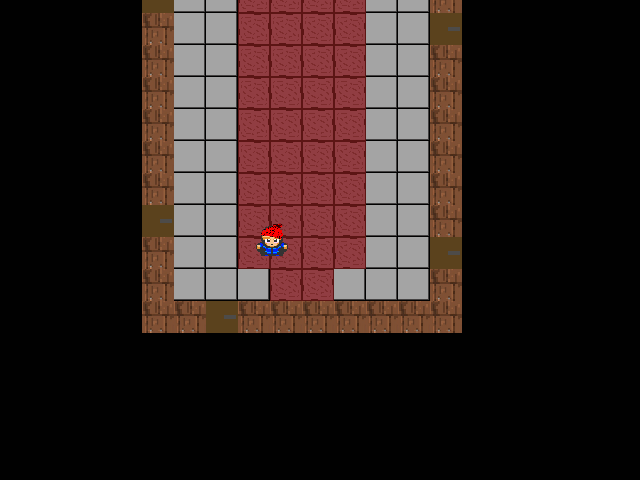
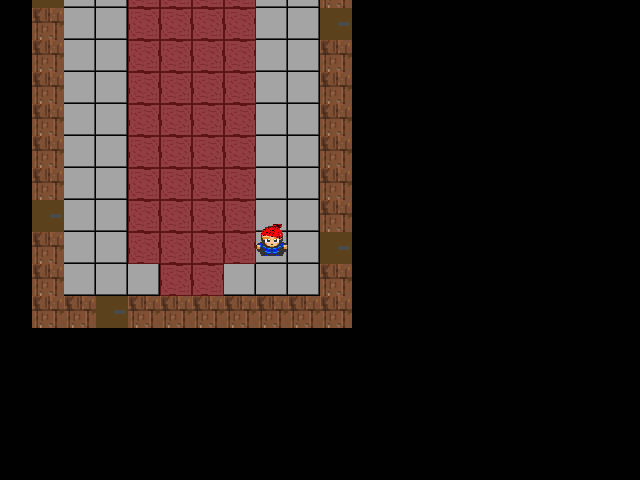
now you can enter your room

diff --git a/main.py b/main.py
@@ -11,7 +11,7 @@ from quest import Quest
 from save_progress import SaveProgress
 from camera import Camera
 from bs4 import BeautifulSoup as bs
-from time import gmtime, strftime
+from time import strftime
 
 from sprites import *; from config import *
 
@@ -22,7 +22,7 @@ class Game:
 
     def __init__(self):
         """
-        Initialization
+        Main game
         """
 
         # Pygame initialization
@@ -66,7 +66,7 @@ class Game:
 
         self.rooms: List[List[str]] = [ground_floor, first_floor, second_floor, third_floor, fourth_floor, ending_hallway, basement]
         '''Rooms where player can go'''
-        self.lyz_rooms: List[List[str]] = [lyz_outside, lyz_ground, lyz_first, lyz_second, lyz_diner]
+        self.lyz_rooms: List[List[str]] = [lyz_outside, lyz_ground, lyz_first, lyz_second, lyz_room, lyz_diner]
         '''Rooms where player can go in the Lyziarsky DLC'''
         self.in_room: List[str] = self.rooms[GROUND_FLOOR] 
         '''Floor where player is rn (starting point) that's ground floor for those who don't know'''
@@ -764,7 +764,7 @@ class Game:
         if self.lyz_created:
             for i, row in enumerate(self.lyz_in_room):
                 for j, column in enumerate(row):
-                    Ground(self, j, i, snow=True) if self.lyz_saved_data not in ('diner', 'ground', 'first', 'second') else Ground(self, j, i)
+                    Ground(self, j, i, snow=True) if self.lyz_saved_data not in ('diner', 'ground', 'first', 'second', 'room') else Ground(self, j, i)
                     if column == '´': Ground(self, j, i, dirt=True)
                     if column == "↨": Ground(self, j, i, carpet=True)
                     elif column == "P": self.player = Player(self, j, i) # Player
@@ -2882,7 +2882,7 @@ class Game:
             pygame.display.update()
         self.update()
         self.draw()
-        if room_number not in ('outside', 'diner', 'ground', 'first', 'second'): self.saved_room_data = room_number
+        if room_number not in ('outside', 'diner', 'ground', 'first', 'second', 'room'): self.saved_room_data = room_number
         else: self.lyz_saved_data = room_number
               
     def talking(self, msg_content: str, change_color: bool = False, additional_color: tuple[int, int, int] = BRITISH_WHITE, g: bool = False, time: int = 0):
@@ -3179,6 +3179,20 @@ class Game:
         elif self.player.facing == 'down' and self.interacted[1] == 14 and self.interacted[2] == 2 and self.lyz_in_room == lyz_first:
             self.talking("Time to get cozy.")
             self.lyz_day.unlock_room()
+            self.lyz_in_room = self.lyz_rooms[LYZ_ROOM]
+            self.create_tile_map()
+            self.camera.set_lyz_camera()
+        
+        elif self.player.facing == 'up' and self.interacted[1] == 0 and self.interacted[2] == 8 and self.lyz_in_room == lyz_room:
+            self.lyz_in_room = self.lyz_rooms[LYZ_FIRST]
+            self.create_tile_map()
+            self.camera.set_lyz_camera()
+            self.door_info("Bye guys", 'first')
+            for sprite in self.all_sprites:
+                sprite.rect.y -= 12 * TILE_SIZE
+                sprite.rect.x += 6 * TILE_SIZE
+            self.player.rect.y += 10 * TILE_SIZE
+            self.player.rect.x -= 5 * TILE_SIZE
 
         elif self.player.facing == 'right' and self.interacted[1] == 12 and self.interacted[2] == 9 and self.lyz_in_room == lyz_first:
             self.talking("Anything can happen, but not me going here.")

diff --git a/lyz.py b/lyz.py
@@ -17,9 +17,9 @@ class Lyziarsky:
         '''
         
         unlocking = True
-        locker = pygame.image.load("img/reader.png")
+        locker = pygame.image.load("img/reader.png").convert_alpha()
         unlock_rect = pygame.Rect(191, 134, 52, 38)
-        hand_unlocking = pygame.image.load("img/unlocker_hand.png")
+        hand_unlocking = pygame.image.load("img/unlocker_hand.png").convert_alpha()
         
         while unlocking:
             
@@ -36,7 +36,7 @@ class Lyziarsky:
                 tmp = self.game.talking_speed_number
                 self.game.talking_speed_number = 120
                 self.game.talking("Wait a moment...", True, BRITISH_WHITE)
-                self.game.talking("Unlocked", True, BRITISH_WHITE)
+                self.game.door_info("Unlocked", "room")
                 unlocking = False
                 self.game.talking_speed_number = tmp
                 

diff --git a/config.py b/config.py
@@ -58,6 +58,7 @@ OUTSIDE = 0
 LYZ_GROUND = 1
 LYZ_FIRST = 2
 LYZ_SECOND = 3
+LYZ_ROOM = 4
 LYZ_DINER = -1
 
 # Number of grades
@@ -596,4 +597,15 @@ lyz_second = [
     "š..↨↨↨↨..š",
     "š...↨↨...š",
     "šššššššššš"
+]
+
+lyz_room = [
+    "ššššššššDššššššššš",
+    "w.......P........w",
+    "w...↨↨↨↨↨↨↨↨↨.[^^š",
+    "š...↨↨↨↨↨↨↨↨↨.[]]š",
+    "š...[^^]......[VVš",
+    "š...[^^].........š",
+    "š...[^^].........š",
+    "ššššššššššššwwšššš",
 ]

diff --git a/camera.py b/camera.py
@@ -498,3 +498,8 @@ class Camera:
                 for sprite in self.game.all_sprites:
                     sprite.rect.y += 3 * TILE_SIZE
                     sprite.rect.x += 2 * TILE_SIZE
+            
+            case 'room':
+                for sprite in self.game.all_sprites:
+                    sprite.rect.y += 6 * TILE_SIZE
+                    sprite.rect.x += TILE_SIZE
